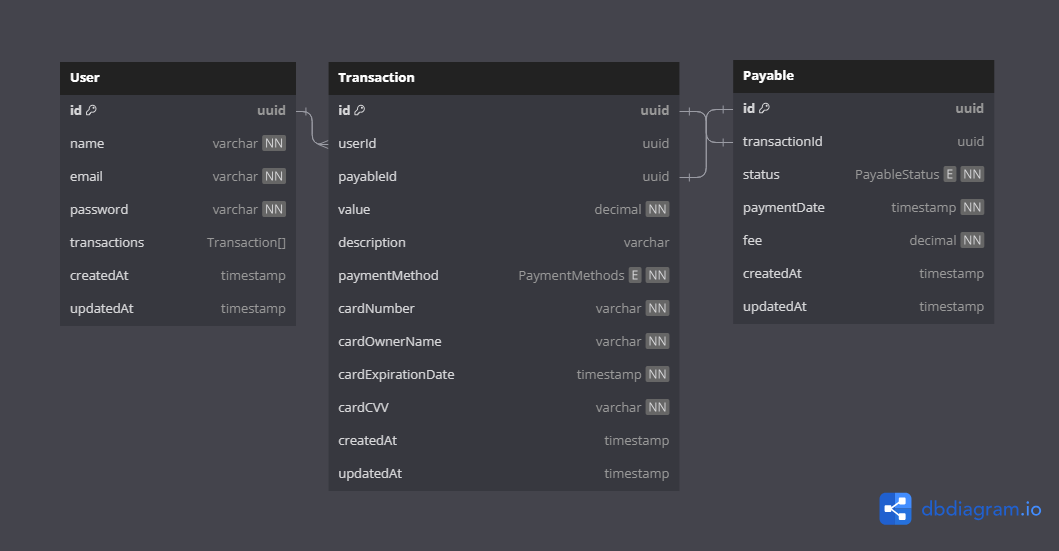
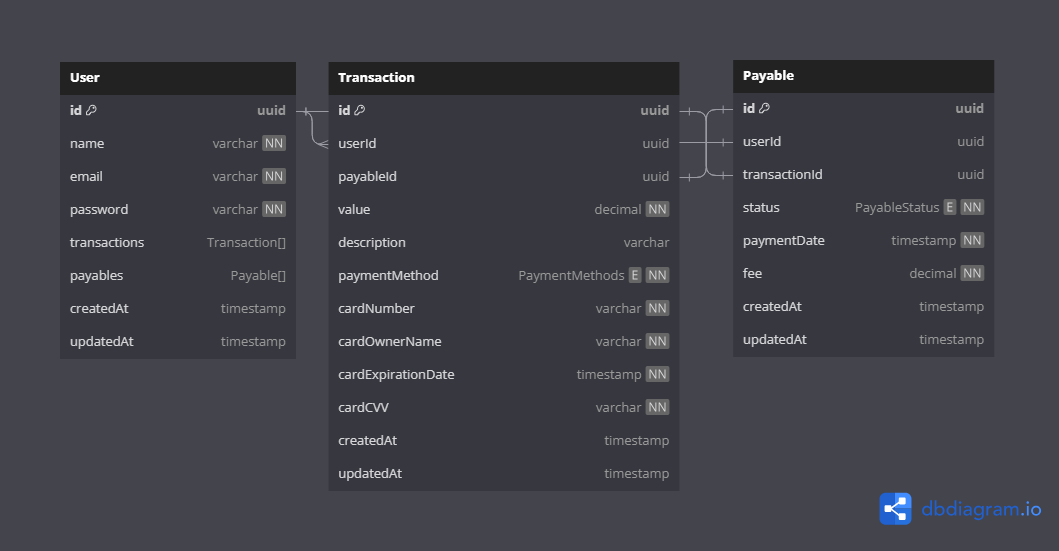
feat: create 1:N relation between user & payable

diff --git a/src/modules/transaction/infra/listeners/transaction-created.listener.ts b/src/modules/transaction/infra/listeners/transaction-created.listener.ts
@@ -39,7 +39,7 @@ export class TransactionCreatedEventListener {
 			throw new InvalidTransactionError('Transaction not found.');
 		}
 
-		const payable = this.createPayable(
+		const payable = this.createPayableForTransaction(
 			transaction,
 			calculateFee(transaction).toString(),
 		);
@@ -50,20 +50,26 @@ export class TransactionCreatedEventListener {
 		await this.transactionRepository.saveTransaction(transaction);
 	}
 
-	private async findTransaction(transactionId: string, userId: string) {
+	private async findTransaction(
+		transactionId: string,
+		userId: string,
+	): Promise<Transaction | null> {
 		return this.transactionRepository.findTransactionById({
 			transactionId,
 			userId,
 		});
 	}
 
-	private createPayable(
-		{ id, paymentMethod, createdAt }: Transaction,
+	private createPayableForTransaction(
+		transaction: Transaction,
 		fee: string,
 	): Payable {
+		const { paymentMethod, id: transactionId, createdAt, userId } = transaction;
+
 		const payableProps = {
 			fee,
-			transactionId: id,
+			transaction,
+			transactionId,
 		};
 
 		if (paymentMethod === 'credit_card') {
@@ -75,11 +81,13 @@ export class TransactionCreatedEventListener {
 				...payableProps,
 				status: 'waiting_funds',
 				paymentDate: createdAtPlus30Days,
+				userId,
 			});
 		} else if (paymentMethod === 'debit_card') {
 			return new Payable({
 				...payableProps,
 				status: 'paid',
+				userId,
 				paymentDate: createdAt,
 			});
 		}

diff --git a/src/infra/database/typeorm/migrations/1695924700065-Test.ts b/src/infra/database/typeorm/migrations/1695924700065-Test.ts
@@ -1,0 +1,45 @@
+import { type MigrationInterface, type QueryRunner } from 'typeorm';
+
+export class Test1695924700065 implements MigrationInterface {
+	public name: string = 'Test1695924700065';
+
+	public async up(queryRunner: QueryRunner): Promise<void> {
+		await queryRunner.query(`
+      ALTER TABLE "payables"
+      ADD "userId" uuid NOT NULL
+  `);
+		await queryRunner.query(`
+      ALTER TABLE "transactions"
+      ALTER COLUMN "createdAt"
+      SET DEFAULT 'now()'
+    `);
+		await queryRunner.query(`
+      ALTER TABLE "payables"
+      ALTER COLUMN "createdAt"
+      SET DEFAULT 'now()'
+    `);
+		await queryRunner.query(`
+      ALTER TABLE "payables"
+      ADD CONSTRAINT "FK_da0f9ce92e77833f113e31cbab3" FOREIGN KEY ("userId") REFERENCES "users"("id") ON DELETE NO ACTION ON UPDATE NO ACTION
+    `);
+	}
+
+	public async down(queryRunner: QueryRunner): Promise<void> {
+		await queryRunner.query(`
+      ALTER TABLE "payables" DROP CONSTRAINT "FK_da0f9ce92e77833f113e31cbab3"
+    `);
+		await queryRunner.query(`
+      ALTER TABLE "payables"
+      ALTER COLUMN "createdAt"
+      SET DEFAULT '2023-09-27 22:05:08.656073'
+    `);
+		await queryRunner.query(`
+      ALTER TABLE "transactions"
+      ALTER COLUMN "createdAt"
+      SET DEFAULT '2023-09-27 22:05:08.656073'
+    `);
+		await queryRunner.query(`
+      ALTER TABLE "payables" DROP COLUMN "userId"
+    `);
+	}
+}

diff --git a/src/modules/payable/domain/entities/payable-entity.ts b/src/modules/payable/domain/entities/payable-entity.ts
@@ -2,8 +2,11 @@ import { BaseEntity } from '@core/base-entity';
 import { type GetBaseProps } from '@core/helpers/get-base-props';
 
 import { type Transaction } from '@modules/transaction/domain/entities/transaction-entity';
+import { type User } from '@modules/user/domain/entities/user-entity';
 
 export type PayableProps = {
+	userId: string;
+	user?: User;
 	transactionId: string;
 	transaction?: Transaction;
 	status: string;
@@ -12,6 +15,8 @@ export type PayableProps = {
 };
 
 export class Payable extends BaseEntity {
+	public readonly userId: string;
+	public user?: User;
 	public readonly transactionId: string;
 	public transaction?: Transaction;
 	public readonly status: string; // 'paid | 'waiting_funds'
@@ -21,6 +26,8 @@ export class Payable extends BaseEntity {
 	public constructor(props: GetBaseProps<PayableProps>) {
 		super(props);
 
+		this.userId = props.userId;
+		this.user = props.user;
 		this.transactionId = props.transactionId;
 		this.transaction = props.transaction;
 		this.status = props.status;

diff --git a/src/modules/user/domain/entities/user-entity.ts b/src/modules/user/domain/entities/user-entity.ts
@@ -1,12 +1,14 @@
 import { BaseEntity } from '@core/base-entity';
 import { type GetBaseProps } from '@core/helpers/get-base-props';
 
+import { type Payable } from '@modules/payable/domain/entities/payable-entity';
 import { type Transaction } from '@modules/transaction/domain/entities/transaction-entity';
 
 export type UserProps = {
 	name: string;
 	email: string;
 	password: string;
+	payables: Payable[] | null;
 	transactions: Transaction[] | null;
 };
 
@@ -14,6 +16,7 @@ export class User extends BaseEntity {
 	public name: string;
 	public email: string;
 	public password: string;
+	public payables: Payable[] | null;
 	public transactions: Transaction[] | null;
 
 	public constructor(props: GetBaseProps<UserProps>) {
@@ -22,6 +25,7 @@ export class User extends BaseEntity {
 		this.name = props.name;
 		this.email = props.email;
 		this.password = props.password;
+		this.payables = props.payables ?? [];
 		this.transactions = props.transactions ?? [];
 	}
 }

diff --git a/src/modules/payable/infra/database/payable-model.ts b/src/modules/payable/infra/database/payable-model.ts
@@ -3,6 +3,7 @@ import {
 	CreateDateColumn,
 	Entity,
 	JoinColumn,
+	ManyToOne,
 	OneToOne,
 	PrimaryGeneratedColumn,
 	Relation,
@@ -10,6 +11,7 @@ import {
 } from 'typeorm';
 
 import { PgTransaction } from '@modules/transaction/infra/database/transaction-model';
+import { PgUser } from '@modules/user/infra/database/user-model';
 
 @Entity('payables')
 export class PgPayable {
@@ -22,6 +24,13 @@ export class PgPayable {
 	@OneToOne(() => PgTransaction, (transaction) => transaction.payable)
 	@JoinColumn({ name: 'transactionId', referencedColumnName: 'id' })
 	transaction?: Relation<PgTransaction>;
+
+	@Column('varchar', { nullable: false })
+	userId: string;
+
+	@ManyToOne(() => PgUser, (user) => user.payables)
+	@JoinColumn({ name: 'userId', referencedColumnName: 'id' })
+	user?: Relation<PgUser>;
 
 	@Column('varchar', { nullable: false })
 	status: string;

diff --git a/src/modules/user/infra/database/user-model.ts b/src/modules/user/infra/database/user-model.ts
@@ -8,6 +8,7 @@ import {
 	UpdateDateColumn,
 } from 'typeorm';
 
+import { PgPayable } from '@modules/payable/infra/database/payable-model';
 import { PgTransaction } from '@modules/transaction/infra/database/transaction-model';
 
 @Entity('users')
@@ -28,6 +29,9 @@ export class PgUser {
 
 	@OneToMany(() => PgTransaction, (transaction) => transaction.user)
 	transactions: Relation<PgTransaction[]> | null;
+
+	@OneToMany(() => PgPayable, (payable) => payable.user)
+	payables: Relation<PgPayable[]> | null;
 
 	@CreateDateColumn()
 	createdAt: Date;

diff --git a/src/modules/payable/domain/entities/payable-entity.spec.ts b/src/modules/payable/domain/entities/payable-entity.spec.ts
@@ -10,6 +10,7 @@ describe('Payable entity', (): void => {
 
 		const payable = new Payable({
 			id: 'random_payable_id',
+			userId: 'random_user_id',
 			fee: calculateFee(transaction).toString(),
 			paymentDate: new Date(2023, 9, 21),
 			status: 'paid',
@@ -17,6 +18,7 @@ describe('Payable entity', (): void => {
 		});
 
 		expect(payable.id).toBe('random_payable_id');
+		expect(payable.userId).toBe('random_user_id');
 		expect(payable.status).toBe('paid');
 		expect(payable.fee).toBe('485');
 	});

diff --git a/tests/factories/payable.ts b/tests/factories/payable.ts
@@ -16,6 +16,7 @@ export const makePayable = (
 	return new Payable({
 		id: override.id ?? 'random_payable_id',
 		transactionId: transaction.id,
+		userId: override.userId ?? 'random_user_id',
 		fee: calculateFee(transaction).toString(),
 		paymentDate: new Date(),
 		status: 'paid',

diff --git a/src/modules/user/domain/entities/user-entity.spec.ts b/src/modules/user/domain/entities/user-entity.spec.ts
@@ -8,6 +8,7 @@ describe('User entity', (): void => {
 			email: 'john.doe@gmail.com',
 			password: 'youshallnotpass',
 			transactions: [],
+			payables: [],
 		});
 
 		expect(user.id).toBe('random_id');

diff --git a/tests/factories/user.ts b/tests/factories/user.ts
@@ -13,6 +13,7 @@ export const makeUser = (
 		name: 'Adam Smith',
 		email: 'adam.smith@gmail.com',
 		password: 'superdifficultpassword',
+		payables: [],
 		transactions: [],
 		...override,
 	});

diff --git a/src/modules/user/domain/services/create-user/index.ts b/src/modules/user/domain/services/create-user/index.ts
@@ -46,6 +46,7 @@ export class CreateUserService
 			...request,
 			password,
 			transactions: [],
+			payables: [],
 		});
 
 		await this.userRepository.create(newUser);
